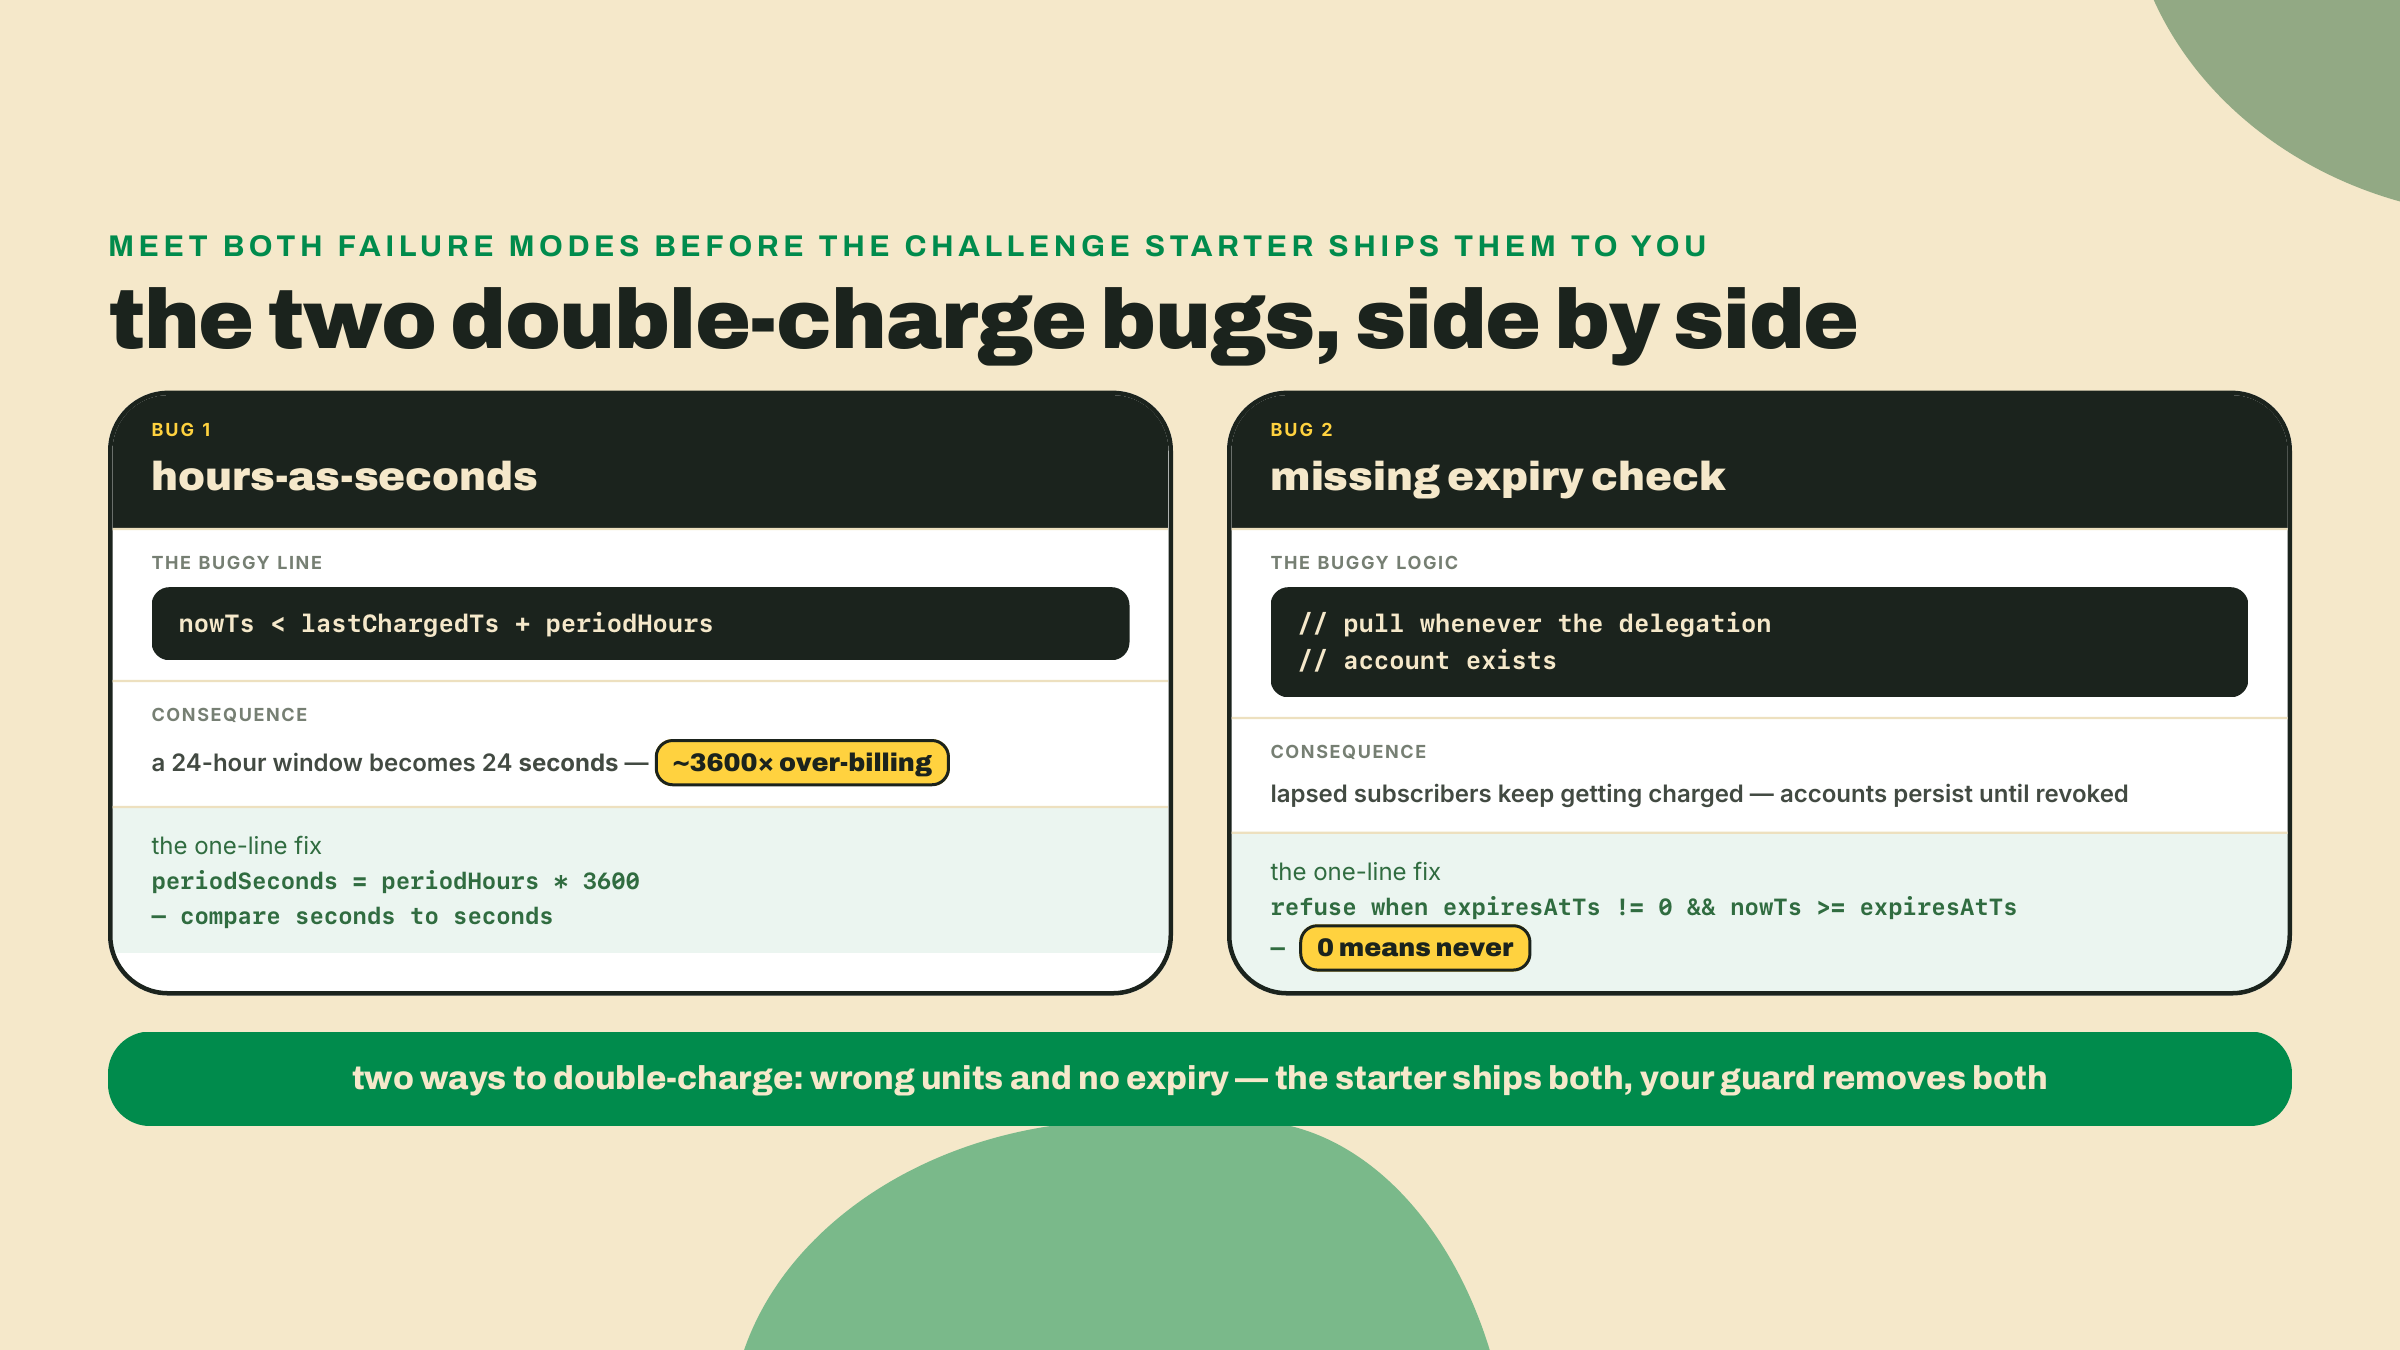
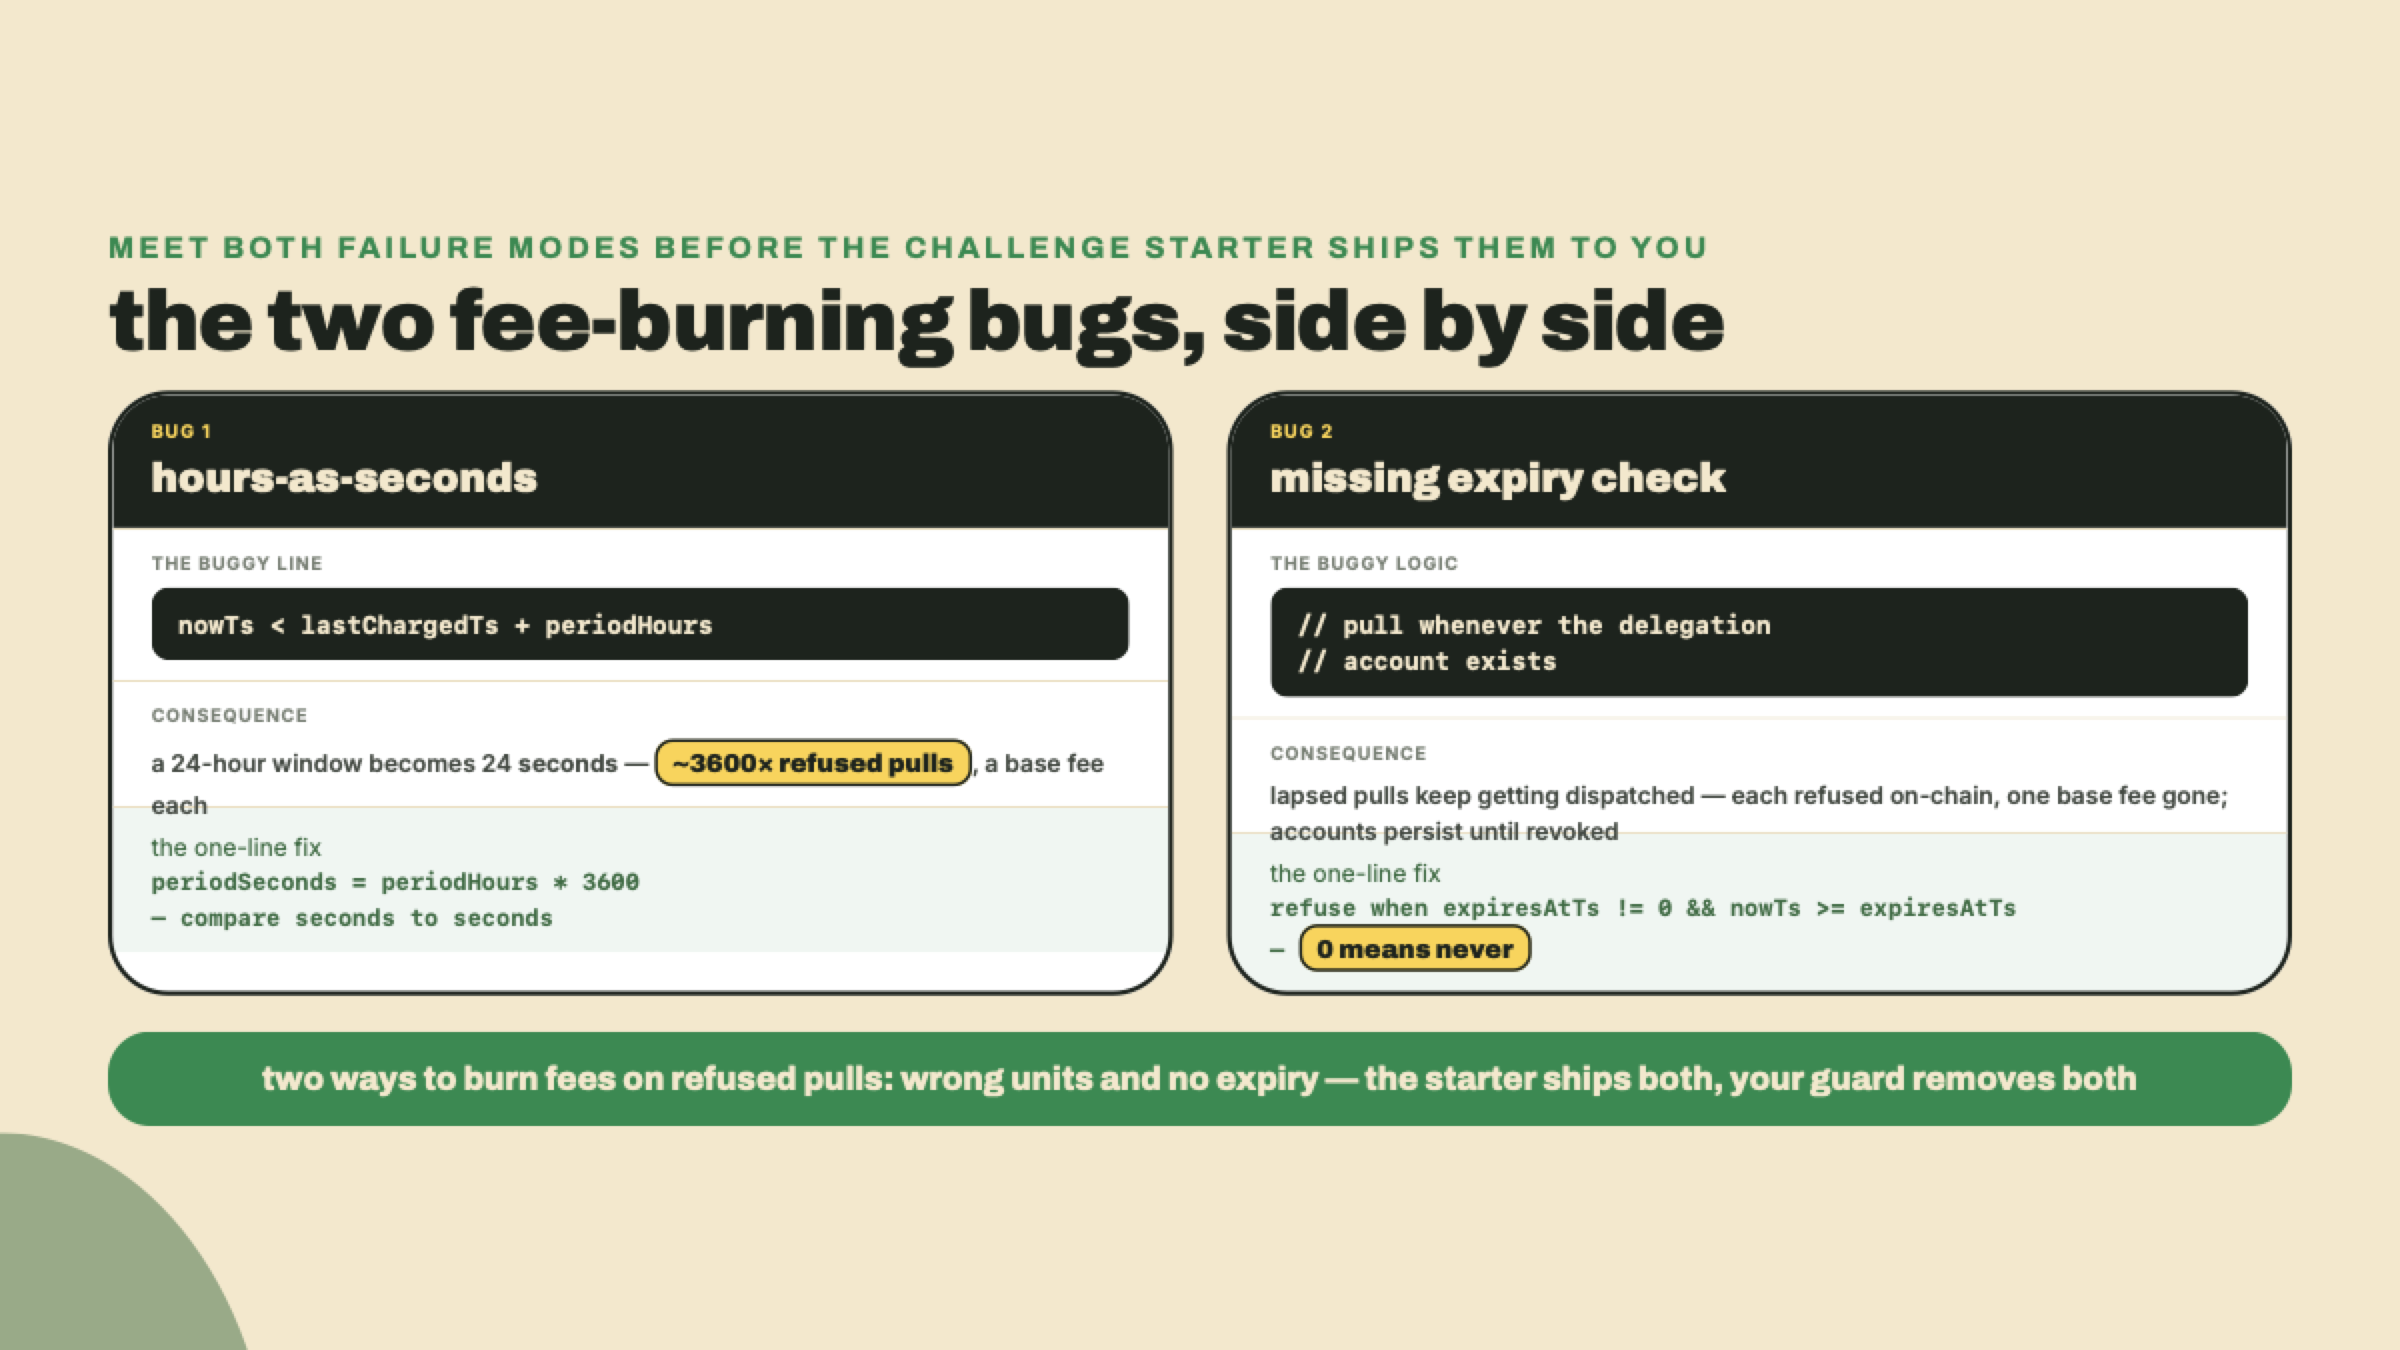
fix(payments): m05-l2 — lapse enforcement is on-chain (devnet-simulated: err 508 pre-CPI), guard is the fee-saver; plan destinations hold wallets not ATAs (err 506 verified), four-slot padded arrays, receiverAta derived at pull time

diff --git a/courses/solana-payments-commerce/visual-src/m05-l2/v05-comparison.html b/courses/solana-payments-commerce/visual-src/m05-l2/v05-comparison.html
@@ -10,10 +10,10 @@
   .viz { position: relative; width: 100%; }
 </style></head>
 <body>
-<!-- comparison: The two double-charge bugs, side by side
+<!-- comparison: The two fee-burning bugs, side by side
      purpose: make both failure modes concrete before the reader meets them in the challenge starter
-     data: bug: hours-as-seconds | wrong: nowTs < lastChargedTs + periodHours | consequence: 24h window becomes 24 seconds, ~3600x over-billing | fix: periodSeconds = periodHours * 3600, compare seconds to seconds bug: missing expiry check | wrong: pull whenever the delegation account exists | consequence: lapsed subscribers keep getting charged; accounts persist until revoked | fix: refuse when expiresAtTs != 0 AND nowTs >= expiresAtTs; 0 means never
-     prompt: Two-column comparison card, one column per bug. Each column: the buggy expression in monospace, the real-world consequence, and the one-line fix. Emphasize the 3600x factor in the first column and the "0 means never" clause in the second. Structure only; house brand styles apply.
+     data: bug: hours-as-seconds | wrong: nowTs < lastChargedTs + periodHours | consequence: 24h window becomes 24 seconds, ~3600x pulls the program refuses, a base fee each | fix: periodSeconds = periodHours * 3600, compare seconds to seconds bug: missing expiry check | wrong: pull whenever the delegation account exists | consequence: lapsed subscribers keep getting pulls dispatched; the program refuses each, accounts persist until revoked | fix: refuse when expiresAtTs != 0 AND nowTs >= expiresAtTs; 0 means never
+     prompt: Two-column comparison card, one column per bug. Each column: the buggy expression in monospace, the real-world consequence, and the one-line fix. Emphasize the 3600x refused-pull factor in the first column and the "0 means never" clause in the second. Structure only; house brand styles apply.
      BUILD .viz as on-brand HTML per skills/content-gen/references/visual-rendering.md.
      Header: <div class="stbr-eyebrow">..</div> + <h2 class="viz-title">..</h2>.
      Leave the .stbr-decor block untouched (per-asset brand decoration).
@@ -57,7 +57,7 @@
              color:var(--text-on-brand); }
 </style>
   <div class="stbr-eyebrow">meet both failure modes before the challenge starter ships them to you</div>
-  <h2 class="viz-title">the two double-charge bugs, side by side</h2>
+  <h2 class="viz-title">the two fee-burning bugs, side by side</h2>
   <div class="cols">
     <div class="col">
       <div class="col-head">
@@ -70,7 +70,7 @@
       </div>
       <div class="sec">
         <div class="cap">consequence</div>
-        <div class="cons">a 24-hour window becomes 24 <b>seconds</b> &mdash; <span class="mark">~3600&times; over-billing</span></div>
+        <div class="cons">a 24-hour window becomes 24 <b>seconds</b> &mdash; <span class="mark">~3600&times; refused pulls</span>, a base fee each</div>
       </div>
       <div class="fix">
         <div class="cap">the one-line fix</div>
@@ -88,7 +88,7 @@
       </div>
       <div class="sec">
         <div class="cap">consequence</div>
-        <div class="cons">lapsed subscribers keep getting charged &mdash; accounts persist until revoked</div>
+        <div class="cons">lapsed pulls keep getting dispatched &mdash; each refused on-chain, one base fee gone; accounts persist until revoked</div>
       </div>
       <div class="fix">
         <div class="cap">the one-line fix</div>
@@ -96,6 +96,6 @@
       </div>
     </div>
   </div>
-  <div class="verdict">two ways to double-charge: wrong units and no expiry &mdash; the starter ships both, your guard removes both</div>
+  <div class="verdict">two ways to burn fees on refused pulls: wrong units and no expiry &mdash; the starter ships both, your guard removes both</div>
 </div>
 </body></html>

diff --git a/courses/solana-payments-commerce/lessons/m05-l2/intro.md b/courses/solana-payments-commerce/lessons/m05-l2/intro.md
@@ -14,7 +14,7 @@ You should see `{ '@solana/kit': '^7.0.0' }`. Now run `npm view @solana/pay peer
 
 - The program lives at `De1egAFMkMWZSN5rYXRj9CAdheBamobVNubTsi9avR44` and its trick is one move: a Subscription Authority PDA per (user, mint) takes the single delegate slot ONCE with a u64::MAX approval, then per-plan delegation PDAs carry the real, enforced billing limits. One slot, as many subscriptions as the user wants.
 - You ship **club-billing**: create Wavelength's record-of-the-month plan, subscribe a test user, pull one billing period, and land that pull as an invoice row in the exact backoffice orders ledger you built in the webhook lesson. One honesty note carried through the lab: the official pull carries no reference key and no memo, so billing truth is crank-written, keyed on the pull's signature, not reference-reconciled the way a checkout is; the dunning lesson attaches a reference to the invoice when settlement needs one.
-- Two documented unit-and-clock bugs mis-bill in the wild, and neither is an exploit: plans measure their period in `periodHours` while everything you compare against is Unix seconds, and subscription accounts never expire on their own, so `expiresAtTs` is the only time-bound a pull has.
+- Two documented unit-and-clock bugs bite integrators in the wild, and neither is an exploit or a double-charge — the program refuses a mistimed or lapsed pull on-chain, so both bugs burn crank fees, not subscriber money. Plans measure their period in `periodHours` while everything you compare against is Unix seconds, and subscription accounts never close on their own, so `expiresAtTs` — not account existence — is the time-bound your guard must mirror.
 - The client is `@solana/subscriptions` 0.5.0, and it peers `@solana/kit` ^7.0.0 while your checkout workspaces sit on kit ^6. That seam is real, it is the ecosystem's current state, and we handle it with a separate workspace pin, not a rewrite.
 
 One more thing worth saying plainly. Version 0.5.0 of this program was deployed to mainnet on 2026-08-10, twelve days ago as I write this. That date is the v0.5.0 deploy, not the program's mainnet debut (earlier versions were live before it), but it still makes this the newest load-bearing thing in the course. You are learning it before most integration guides exist. That is not a risk disclosure, it is the job: payments engineers get paid for being early and correct at the same time.
@@ -79,9 +79,9 @@ Now the footguns, because this program's two documented integration bugs are bot
 
 **Bug one: hours are not seconds.** A `Plan` stores its cadence as `periodHours` (720 for Wavelength's monthly plan). A `RecurringDelegation` stores its cadence as `periodLengthS`, in seconds. Every timestamp you will ever compare against, `currentPeriodStartTs`, `expiresAtTs`, chain time, is Unix seconds. Compare `periodHours` directly against a seconds delta and your window shrinks by a factor of 3,600: your crank calls a 24-hour plan due again after 24 seconds. Note who saves the subscriber here — the program does, exactly as the enforcement section said: the early pull is refused with the period-not-elapsed error before a token moves. What the program cannot save is your wallet and your logs: every refused pull costs the crank a base fee and a log line, on every tick, forever, until you notice. The rule is boring and absolute: convert to seconds at the boundary, compare only seconds. 24 hours is 86,400 seconds, not 24.
 
-**Bug two: nothing expires by itself.** Subscription and delegation accounts persist on-chain until an explicit revoke instruction closes them. A plan whose term ended last week still has a live delegation account sitting there, and if your crank only checks "does the delegation exist," it will happily charge a lapsed subscriber. `expiresAtTs` is the ONLY time-bound on a pull, and it must be checked against chain time on every single tick. And its zero case bites in the other direction: `expiresAtTs` of 0 means "never expires," so a guard that naively compares `now >= expiresAtTs` treats every no-expiry subscription as expired at the epoch and refuses to bill anyone. Handle zero first, then compare.
+**Bug two: nothing expires by itself.** Subscription and delegation accounts persist on-chain until an explicit revoke instruction closes them. A plan whose term ended last week still has a live delegation account sitting there, and if your crank only checks "does the delegation exist," it will keep dispatching pulls for that lapsed subscriber. Same division of labor as bug one: the program enforces the time-bound — a pull against a lapsed delegation is refused with its subscription-cancelled error before a token moves, so nobody gets charged — and what the existence-only crank buys itself is the same tax, a base fee and a log line per refused tick, forever. `expiresAtTs` against chain time is the check your guard mirrors on every tick, so the refusal happens in your process for free instead of on-chain for a fee. And its zero case bites in the other direction: `expiresAtTs` of 0 means "never expires," so a guard that naively compares `now >= expiresAtTs` treats every no-expiry subscription as expired at the epoch and refuses to bill anyone. Handle zero first, then compare.
 
-![Two documented billing bugs sit side by side: reading periodHours as seconds over-bills roughly 3600 times, and skipping expiresAtTs keeps charging subscribers whose plans lapsed.](assets/v05-comparison.png)
+![Two documented billing bugs sit side by side: reading periodHours as seconds dispatches pulls roughly 3600 times too often, and skipping expiresAtTs keeps dispatching pulls for lapsed subscribers; the program refuses both, at a base fee per refusal.](assets/v05-comparison.png)
 
 ### The kit seam: v6 checkout, v7 billing
 
@@ -229,11 +229,15 @@ import {
   findPlanPda,
   getCreatePlanInstruction,
 } from "@solana/subscriptions";
-import { findAssociatedTokenPda } from "@solana-program/token";
-import { CLUB_MINT, CLUB_TOKEN_PROGRAM, loadSigner } from "./config";
+import { address } from "@solana/kit";
+import { CLUB_MINT, loadSigner } from "./config";
 import { sendIxs } from "./send";
 
 const PLAN_ID = 1n;
+
+// The on-chain Plan stores destinations and pullers as fixed four-slot
+// arrays; unused slots carry the system address as an explicit "empty".
+const NONE = address("11111111111111111111111111111111");
 
 async function main() {
   const merchant = await loadSigner("keys/merchant.json");
@@ -241,13 +245,6 @@ async function main() {
   const [planPda] = await findPlanPda({
     owner: merchant.address,
     planId: PLAN_ID,
-  });
-
-  // Pulls may only land in a destination the plan declares up front.
-  const [treasuryAta] = await findAssociatedTokenPda({
-    owner: merchant.address,
-    mint: CLUB_MINT,
-    tokenProgram: CLUB_TOKEN_PROGRAM,
   });
 
   const ix = getCreatePlanInstruction({
@@ -260,11 +257,17 @@ async function main() {
       terms: {
         amount: 15_000_000n, // 15 USDC at 6 decimals
         periodHours: 720n, // HOURS on the plan; you convert everywhere else
+        // The program stamps its own clock over this field at execution;
+        // 03-subscribe reads the stored value back rather than trusting ours.
         createdAt: BigInt(Math.floor(Date.now() / 1000)),
       },
       endTs: 0n, // 0 = no scheduled end, the same zero-means-never convention as expiry
-      destinations: [treasuryAta],
-      pullers: [merchant.address],
+      // Destinations are WALLET addresses, never token accounts: the program
+      // whitelists the owner, and each pull presents that owner's ATA for the
+      // plan's mint, derived at pull time. Declare an ATA here and every pull
+      // is refused on-chain with the destination-not-in-whitelist error.
+      destinations: [merchant.address, NONE, NONE, NONE],
+      pullers: [merchant.address, NONE, NONE, NONE],
       metadataUri: "https://wavelength.example/plans/record-of-the-month.json",
     },
   });
@@ -279,7 +282,7 @@ main().catch((e) => {
 });
 ```
 
-The `destinations` and `pullers` arrays are the plan's own access control, on-chain: pulls can only land in a declared destination, and only the plan owner or a whitelisted puller can initiate one. Your crank keypair goes in `pullers` when you productionize; for the lab the merchant key pulls directly.
+The `destinations` and `pullers` arrays are the plan's own access control, on-chain: a pull can only land in the ATA of a declared destination wallet, and only the plan owner or a whitelisted puller can initiate one. Both arrays travel as fixed four-slot structs (the client encodes exactly four entries, hence the `NONE` padding) and both hold wallet addresses, verified against devnet: real plans store owners, and a plan that stored an ATA instead had its pulls refused with the destination-not-in-whitelist error. Your crank keypair goes in `pullers` when you productionize; for the lab the merchant key pulls directly.
 
 **5. Subscribe the test user.** The acceptance step, and my favorite design detail in the whole program. `03-subscribe.ts`:
 
@@ -414,7 +417,13 @@ async function main() {
     mint: CLUB_MINT,
     tokenProgram: CLUB_TOKEN_PROGRAM,
   });
-  const receiverAta = plan.data.data.destinations[0];
+  // destinations[0] is the treasury WALLET the plan declared; the receiving
+  // token account is that wallet's ATA, derived here at pull time.
+  const [receiverAta] = await findAssociatedTokenPda({
+    owner: plan.data.data.destinations[0],
+    mint: CLUB_MINT,
+    tokenProgram: CLUB_TOKEN_PROGRAM,
+  });
 
   const ix = await getTransferSubscriptionInstructionAsync({
     subscriptionPda,
